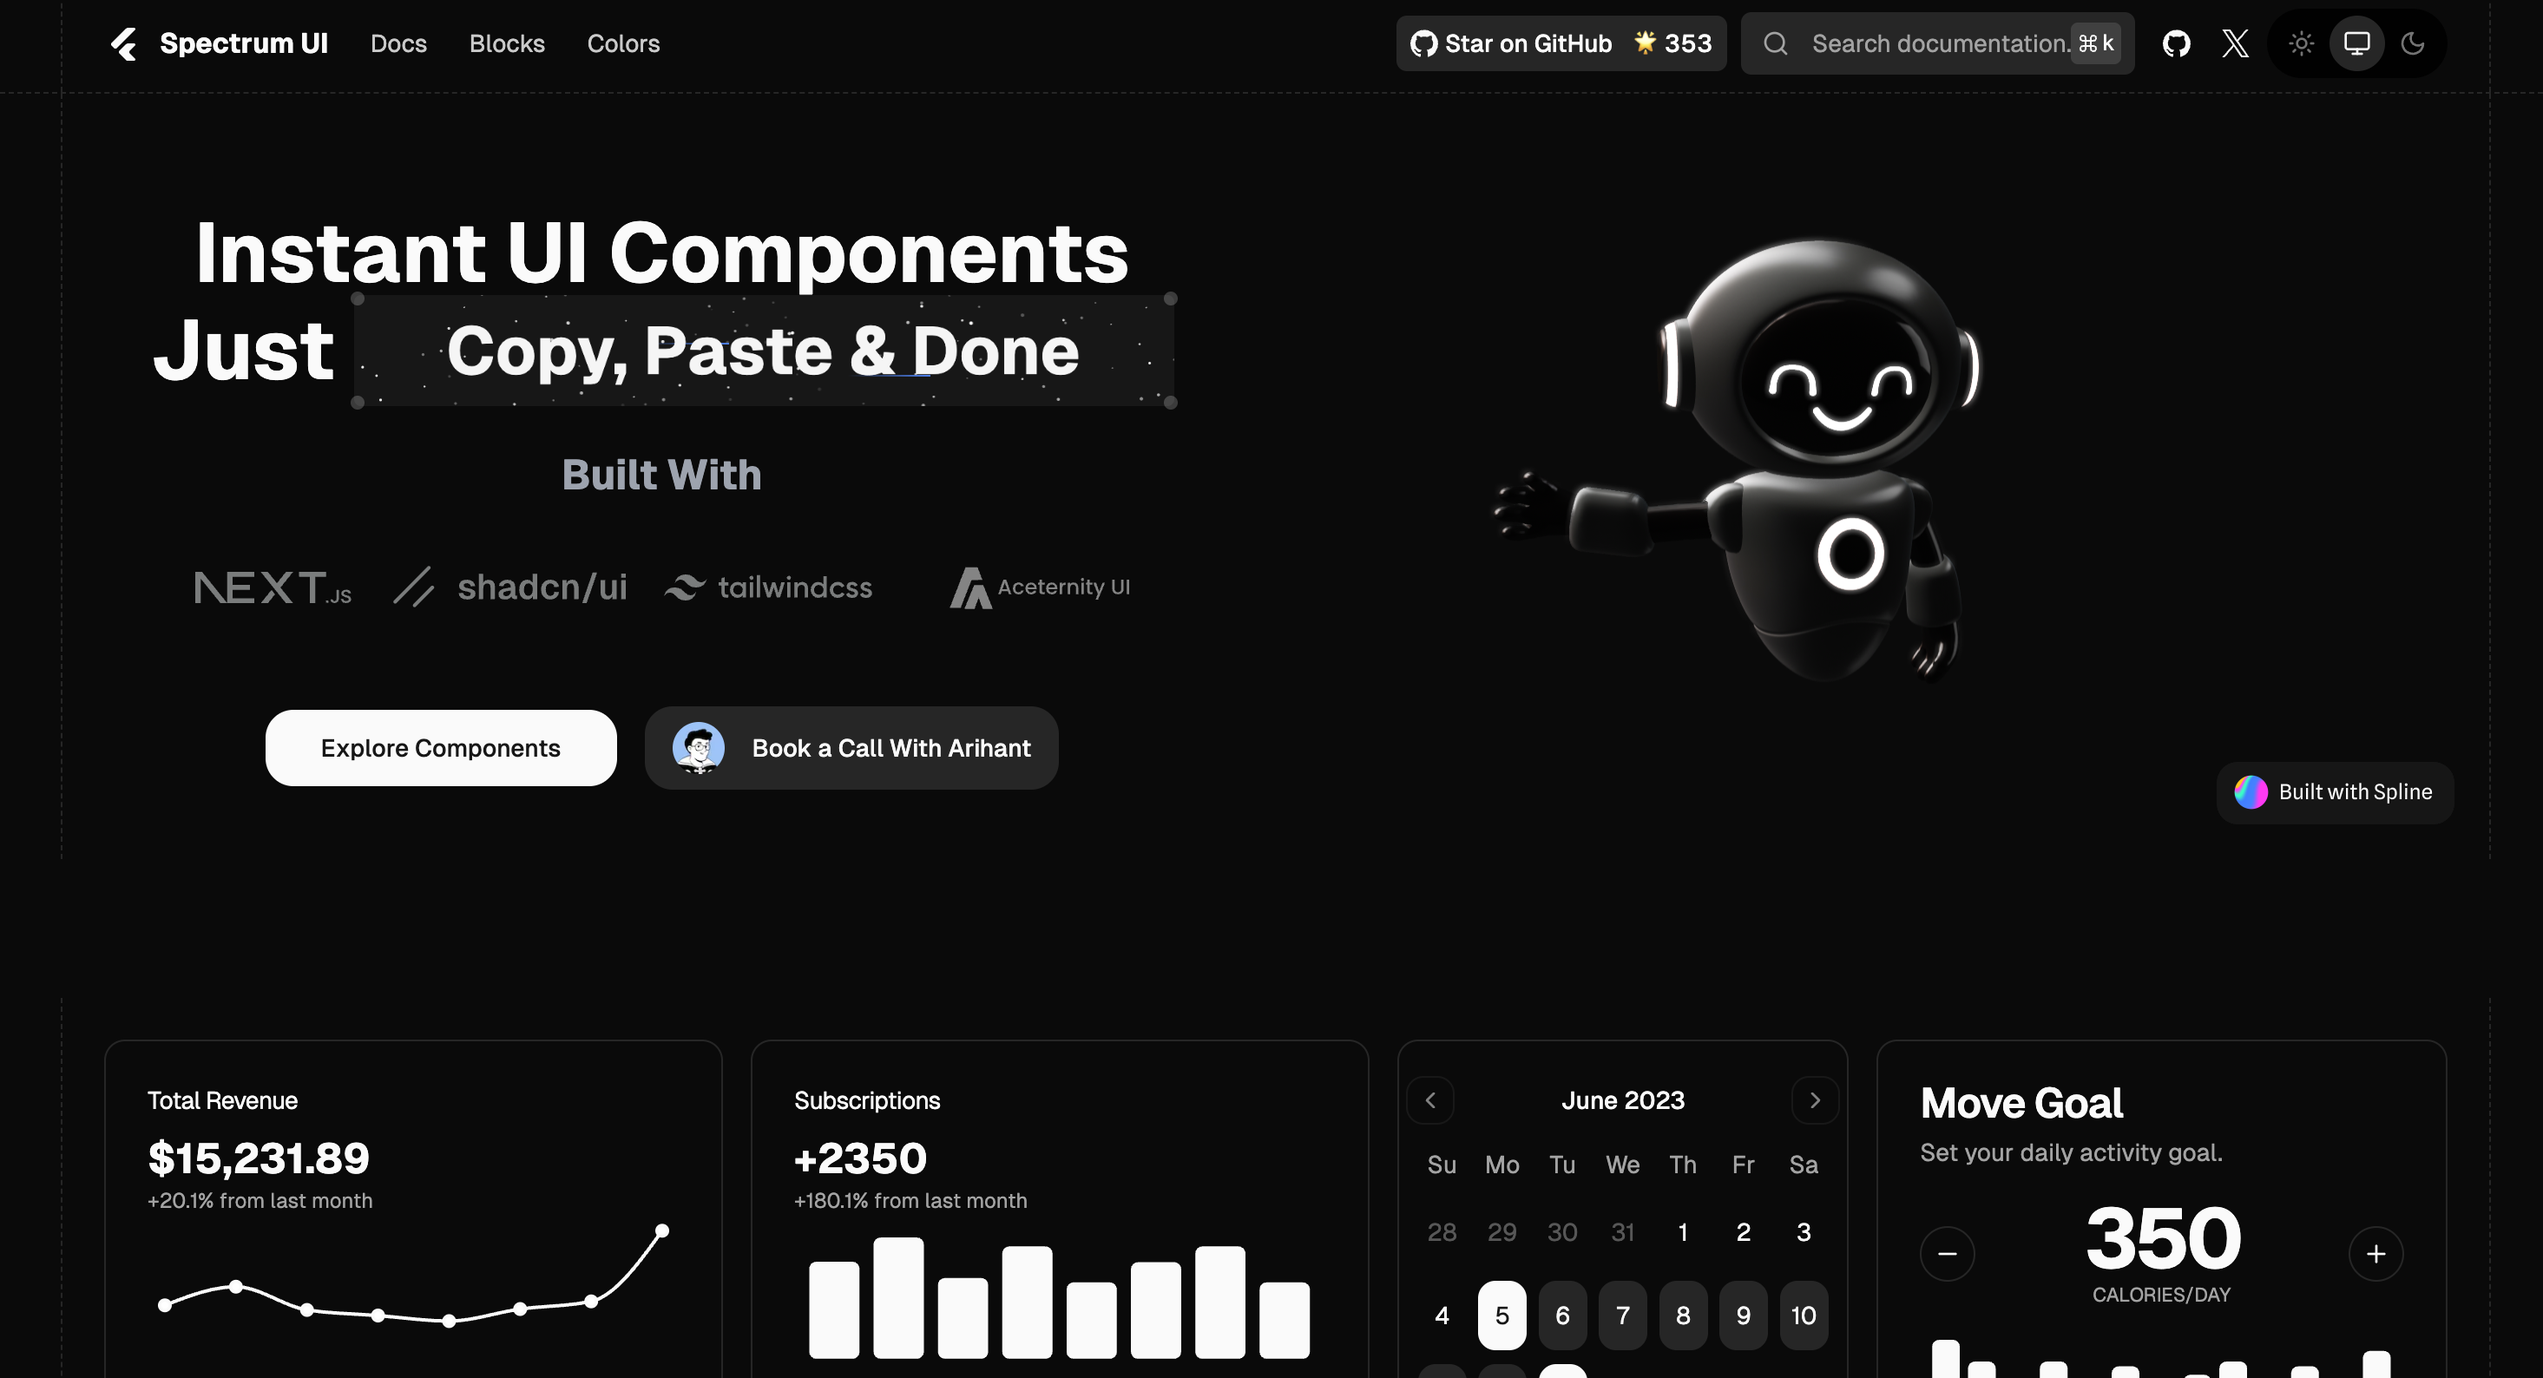
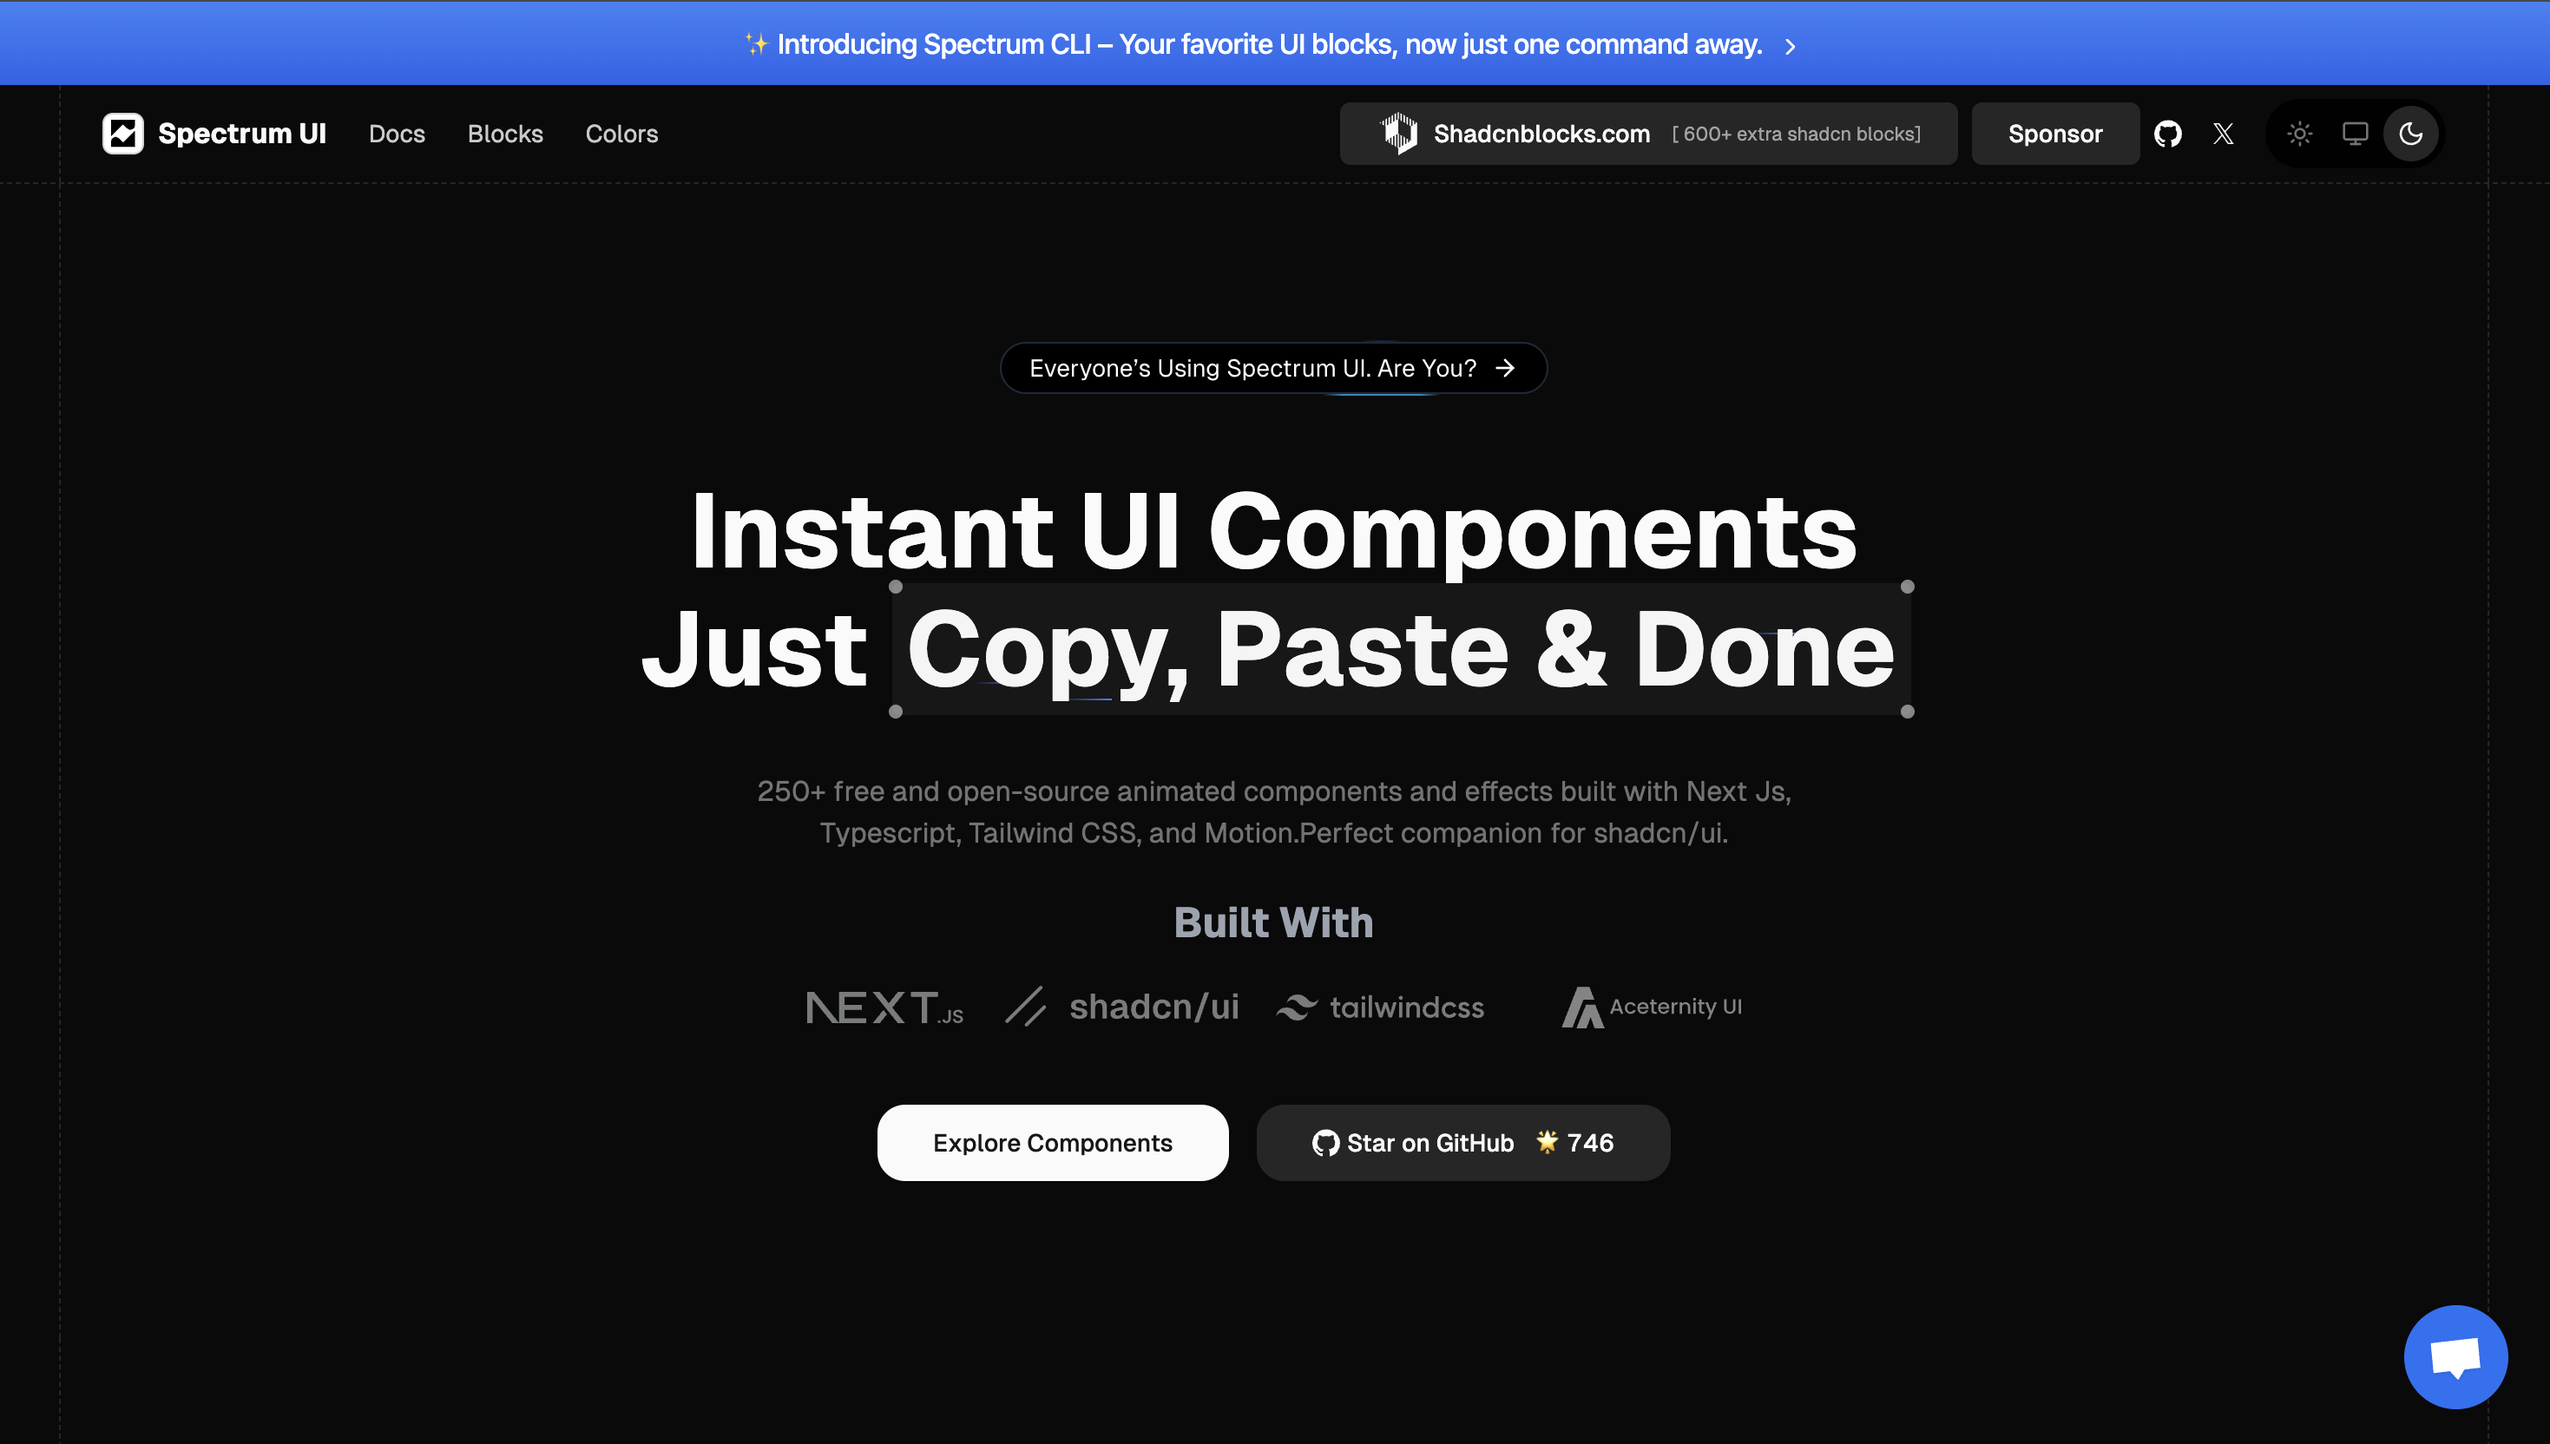
add new og images

diff --git a/components/sponserbutton.tsx b/components/sponserbutton.tsx
@@ -1,17 +1,40 @@
-import Link from "next/link";
-import { siteConfig } from "@/config/site";
-import { FomoButton } from "./ui/moving-border";
-import { ArrowRight } from "lucide-react";
+import Link from 'next/link';
+import { siteConfig } from '@/config/site';
+import { FomoButton } from './ui/moving-border';
+import { ArrowRight } from 'lucide-react';
 
 export function Fomo() {
   return (
-    <Link href={siteConfig.links.twitter}>
+    <Link
+      href="https://vercel.com/oss?utm_source=ikiform"
+      target="_blank"
+      rel="noopener noreferrer"
+    >
       <div>
         <FomoButton
           borderRadius="1.75rem"
-          className="bg-white dark:bg-black text-black dark:text-white border-neutral-200 dark:border-slate-800 px-4"
+          className="bg-white dark:bg-black text-black dark:text-white border-neutral-200 dark:border-neutral-800 px-4"
         >
-          Everyone’s Using Spectrum UI. Are You?
+          <div className="flex items-center justify-center gap-2">
+            Backed by
+            <span className="flex items-center gap-2 justify-center">
+              <svg
+                height="13"
+                width="13"
+                strokeLinejoin="round"
+                viewBox="0 0 16 16"
+                aria-label="Vercel logo"
+              >
+                <path
+                  fillRule="evenodd"
+                  clipRule="evenodd"
+                  d="M8 1L16 15H0L8 1Z"
+                  fill="currentColor"
+                ></path>
+              </svg>
+              Vercel OSS
+            </span>
+          </div>
           <ArrowRight className="h-4 w-4 ml-2" />
         </FomoButton>
       </div>

diff --git a/components/ui/moving-border.tsx b/components/ui/moving-border.tsx
@@ -47,7 +47,7 @@ export function FomoButton({
         <MovingBorder duration={duration} rx="30%" ry="30%">
           <div
             className={cn(
-              "h-20 w-20 opacity-[0.8] bg-[radial-gradient(var(--sky-500)_40%,transparent_60%)]",
+              "h-20 w-20 opacity-[0.8] bg-[radial-gradient(var(--neutral-500)_40%,transparent_60%)]",
               borderClassName,
             )}
           />
